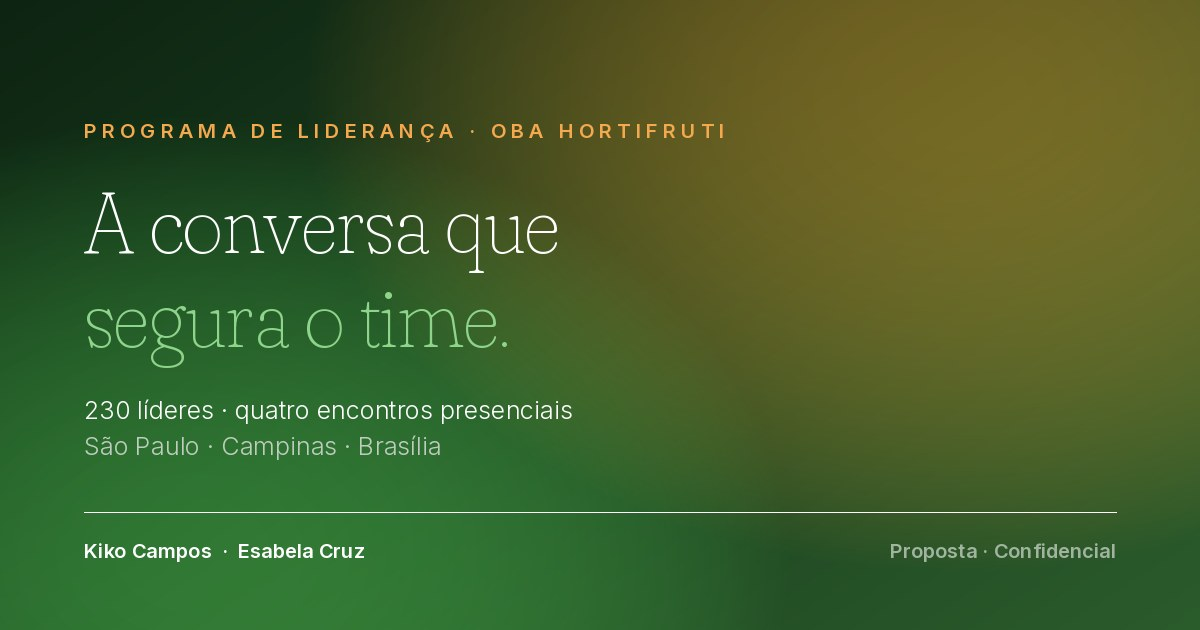
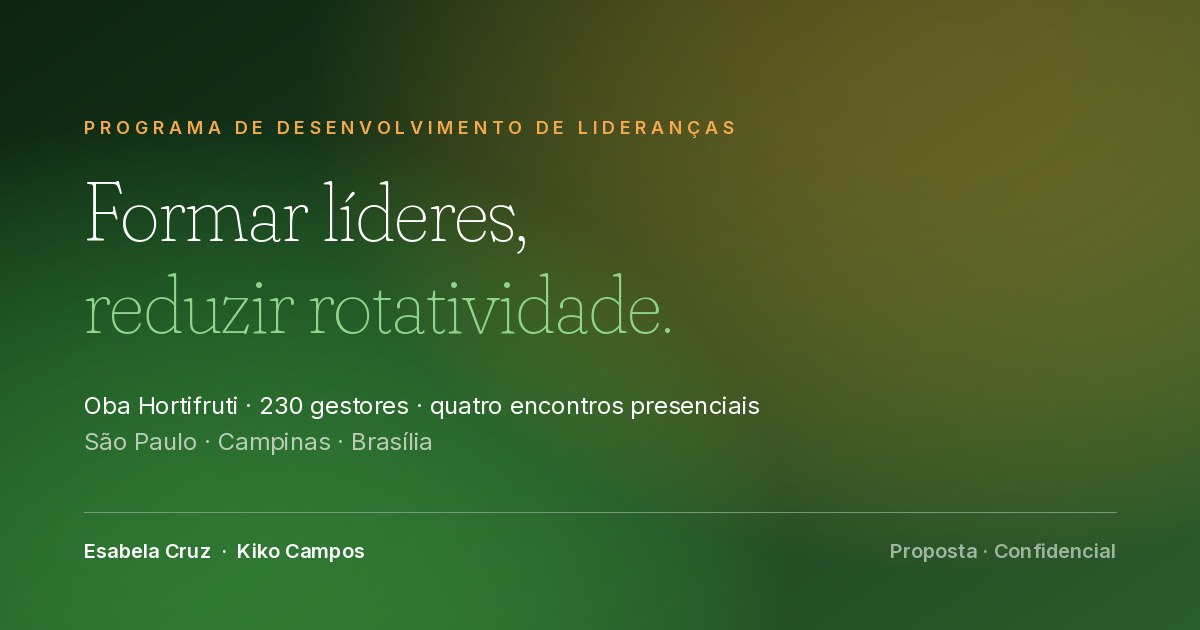
Add files via upload

diff --git a/proposta/oba/index.html b/proposta/oba/index.html
@@ -3,18 +3,18 @@
 <head>
 <meta charset="utf-8">
 <meta name="viewport" content="width=device-width, initial-scale=1">
-<title>A conversa que segura o time · Proposta Kiko Campos para o Oba Hortifruti</title>
-<meta name="description" content="Proposta comercial para o programa de liderança do Oba Hortifruti. Quatro encontros presenciais, 230 líderes, São Paulo, Campinas e Brasília.">
+<title>Formar líderes, reduzir rotatividade · Proposta para o Oba Hortifruti</title>
+<meta name="description" content="Proposta comercial para o programa de desenvolvimento de lideranças do Oba Hortifruti. Quatro encontros presenciais, 230 gestores, São Paulo, Campinas e Brasília.">
 <meta name="robots" content="noindex, nofollow, noarchive">
 <meta name="googlebot" content="noindex, nofollow">
 <meta property="og:type" content="website">
-<meta property="og:title" content="A conversa que segura o time · Kiko Campos para o Oba Hortifruti">
-<meta property="og:description" content="Programa de liderança para 230 gestores do Oba Hortifruti. Quatro encontros presenciais em SP, Campinas e Brasília.">
+<meta property="og:title" content="Formar líderes, reduzir rotatividade · Esabela Cruz e Kiko Campos para o Oba Hortifruti">
+<meta property="og:description" content="Programa de desenvolvimento de lideranças para 230 gestores do Oba Hortifruti. Quatro encontros presenciais em SP, Campinas e Brasília.">
 <meta property="og:url" content="https://kikocampos.com/proposta/oba/">
 <meta property="og:image" content="https://kikocampos.com/proposta/oba/og.jpg">
 <meta property="og:image:width" content="1200">
 <meta property="og:image:height" content="630">
-<meta property="og:image:alt" content="A conversa que segura o time — proposta de Kiko Campos para o Oba Hortifruti">
+<meta property="og:image:alt" content="Formar líderes, reduzir rotatividade — proposta para o Oba Hortifruti">
 <meta name="twitter:card" content="summary_large_image">
 <link rel="preconnect" href="https://fonts.googleapis.com">
 <link rel="preconnect" href="https://fonts.gstatic.com" crossorigin>
@@ -163,6 +163,33 @@ section.alt .tl li::before{border-color:var(--creme)}
 .perfil svg{width:15px;height:15px;flex:none;fill:currentColor}
 .autor h2{margin-bottom:22px}
 
+/* ============ DUPLA EM PARIDADE ============ */
+.duo{display:grid;grid-template-columns:repeat(2,1fr);gap:44px;margin:40px 0 8px;align-items:start}
+.duo .pessoa figure{margin:0}
+.duo .pessoa img{width:100%;aspect-ratio:4/5;object-fit:cover;object-position:50% 22%;
+  display:block;border-radius:4px;box-shadow:0 22px 50px -24px rgba(20,48,26,.45)}
+.duo .pessoa h3{font-family:'Fraunces',serif;font-size:1.55rem;font-weight:600;
+  letter-spacing:-.015em;margin:22px 0 6px}
+.duo .pessoa .papel{font-size:10.5px;font-weight:700;letter-spacing:.22em;text-transform:uppercase;
+  color:var(--dourado);display:block;margin-bottom:16px;line-height:1.6}
+.duo .pessoa p{font-size:15.5px;line-height:1.62}
+.duo .pessoa .li-link{margin-top:6px}
+
+.fonte-num{display:inline-block;font-size:10.5px;font-weight:700;letter-spacing:.14em;
+  text-transform:uppercase;color:var(--verde);background:rgba(65,135,63,.09);
+  padding:3px 9px;border-radius:100px;margin-left:6px;white-space:nowrap;vertical-align:1px}
+
+/* ============ REFERÊNCIAS ============ */
+.refs{list-style:none;margin:34px 0 0;counter-reset:r}
+.refs li{counter-increment:r;position:relative;padding:20px 0 20px 46px;
+  border-bottom:1px solid var(--linha);font-size:15px;line-height:1.6;color:#414743}
+.refs li:first-child{border-top:1px solid var(--linha)}
+.refs li::before{content:counter(r);position:absolute;left:0;top:20px;
+  width:28px;height:28px;border-radius:50%;border:1px solid var(--verde);color:var(--verde);
+  display:grid;place-items:center;font-size:12px;font-weight:700;font-family:'Fraunces',serif}
+.refs li b{display:block;color:var(--tinta);font-weight:600;margin-bottom:4px;font-size:15.5px}
+.refs li cite{font-style:normal;color:var(--grafite);font-size:13.5px;display:block;margin-top:6px}
+
 .dupla{display:grid;grid-template-columns:repeat(2,1fr);gap:22px;margin:36px 0 0}
 .dupla .card{border-top:2px solid var(--dourado);border-radius:0 0 4px 4px;
   display:flex;flex-direction:column}
@@ -286,7 +313,10 @@ footer.rodape .in{max-width:var(--max);margin:0 auto;padding:0 32px;
   .stats .in{grid-template-columns:repeat(2,1fr);padding:34px 22px;gap:24px}
   .stat b{font-size:2rem}
   section{padding:58px 0}
-  .grid3,.grid2,.creds,.dupla,.papeis{grid-template-columns:1fr;gap:16px}
+  .grid3,.grid2,.creds,.dupla,.papeis,.duo{grid-template-columns:1fr;gap:16px}
+  .duo{gap:38px}
+  .duo .pessoa img{max-width:320px}
+  .refs li{padding-left:38px}
   .papeis{border-left:none;border-top:none;margin:28px 0}
   .papeis .p{border-right:none;padding:24px 0}
   .autor{grid-template-columns:1fr;gap:26px}
@@ -335,17 +365,17 @@ footer.rodape .in{max-width:var(--max);margin:0 auto;padding:0 32px;
              onerror="this.outerHTML='<span style=&quot;font-family:Fraunces,serif;font-size:20px;font-weight:600;color:#fff&quot;>Oba Hortifruti</span>'">
       </a>
       <div class="x"></div>
-      <div class="kiko">Kiko Campos<small>Liderança · Cultura · Mudança</small></div>
+      <div class="kiko">Esabela Cruz &amp; Kiko Campos<small>Liderança · Cultura · Mudança</small></div>
     </div>
     <div class="kv-tag">Proposta · Confidencial</div>
   </div>
 
   <div class="kv-core">
-    <div class="kicker">Programa de liderança · 230 gestores · SP, Campinas e Brasília</div>
-    <h1>A conversa que<em>segura o time.</em></h1>
-    <p class="lead">O Oba cresce por aquisição enquanto perde gente pela porta dos fundos.
-      Quatro encontros presenciais para transformar a qualidade da conversa entre gestor e equipe
-      no principal ativo de retenção da rede.</p>
+    <div class="kicker">Programa de desenvolvimento de lideranças · 230 gestores</div>
+    <h1>Formar líderes,<em>reduzir rotatividade.</em></h1>
+    <p class="lead">Um programa presencial para 230 gestores do Oba Hortifruti, focado na variável que
+      mais afeta a rotatividade em operações de varejo: a qualidade da conversa entre o gestor e
+      sua equipe.</p>
   </div>
 
   <div class="kv-foot">
@@ -434,17 +464,18 @@ footer.rodape .in{max-width:var(--max);margin:0 auto;padding:0 32px;
       <div class="card">
         <span class="n">Tese I</span>
         <h4>Turnover no varejo de frescos raramente é falta de empatia. É falta de previsibilidade.</h4>
-        <p>A pesquisa de Zeynep Ton, do MIT, sobre operações de varejo é consistente: estabilidade de
-          jornada e clareza de escala movem rotatividade mais do que qualquer ação isolada de engajamento.
-          Quem sai porque “cada dia era um horário” está reagindo ao desenho do trabalho.</p>
+        <p>A pesquisa de Zeynep Ton, do MIT, e o experimento randomizado conduzido na Gap Inc. convergem:
+          estabilidade de jornada move rotatividade, vendas e produtividade mais do que qualquer ação
+          isolada de engajamento. Quem sai porque “cada dia era um horário” está reagindo ao desenho do
+          trabalho. <span class="fonte-num">Fontes 2 e 3</span></p>
         <p>O gestor não controla a escala inteira — mas controla <strong>previsibilidade, aviso prévio,
           negociação e explicação</strong>. É aí que o treinamento age.</p>
       </div>
       <div class="card">
         <span class="n">Tese II</span>
         <h4>Duas lojas com a mesma política de RH entregam rotatividade oposta.</h4>
-        <p>A diferença é quem lidera. O corpo de pesquisa da Gallup atribui ao gestor direto a maior parte
-          da variação de engajamento entre equipes.</p>
+        <p>A diferença é quem lidera. A Gallup atribui ao gestor direto <strong>pelo menos 70% da variação</strong>
+          de engajamento entre equipes, em base de 27 milhões de colaboradores. <span class="fonte-num">Fonte 4</span></p>
         <p>Isso é uma boa notícia para o Oba: significa que existe uma alavanca <strong>dentro</strong> da
           empresa, exercível na segunda-feira de manhã, sem esperar reestruturação de política.</p>
       </div>
@@ -464,6 +495,88 @@ footer.rodape .in{max-width:var(--max);margin:0 auto;padding:0 32px;
       <p>Ninguém pede demissão de uma empresa. Pede demissão de uma conversa que nunca aconteceu.</p>
       <p>Por isso esta proposta não vende um workshop de liderança. Vende o treino de três conversas
         específicas, com roteiro, prática em sala e compromisso datado antes de o participante sair.</p>
+    </div>
+  </div>
+</section>
+
+<!-- ============================ FUNDAMENTAÇÃO ============================ -->
+<section class="alt">
+  <div class="wrap narrow rv">
+    <div class="eyebrow">Fundamentação</div>
+    <h2>De onde vem cada afirmação desta proposta</h2>
+    <p class="big">Nada aqui é opinião de palco. Cada tese acima se apoia em pesquisa publicada, em dado
+      setorial ou em norma vigente — e registramos a fonte para que o RH do Oba possa checar e usar
+      internamente.</p>
+
+    <ol class="refs">
+      <li>
+        <b>Intervenções individuais de bem-estar não movem o ponteiro. Desenho do trabalho, sim.</b>
+        O maior estudo já feito sobre o tema analisou <strong>46.336 trabalhadores em 233 organizações</strong>
+        e não encontrou benefício mensurável em mindfulness, apps de bem-estar, aulas de relaxamento ou
+        treinos de resiliência. O autor aponta o caminho oposto: mudanças em <strong>escala, práticas de
+        gestão, dimensionamento de equipe, avaliação de desempenho e desenho do trabalho</strong>.
+        <cite>Fleming, W. (2024). <em>Employee well-being outcomes from individual-level mental health
+        interventions</em>. Industrial Relations Journal — Wellbeing Research Centre, Universidade de Oxford.</cite>
+      </li>
+      <li>
+        <b>Escala previsível aumenta vendas e produtividade — não é só um benefício para o funcionário.</b>
+        Primeiro experimento randomizado controlado sobre estabilidade de jornada no varejo, conduzido em
+        <strong>28 lojas da Gap Inc.</strong>: a intervenção elevou as vendas medianas em <strong>7%</strong>
+        e a produtividade do trabalho em <strong>5%</strong>, com redução de horas trabalhadas. É a base
+        empírica da Tese I.
+        <cite>Kesavan, S. (UNC Kenan-Flagler), Lambert, S. (Univ. de Chicago), Williams, J. C. (UC Law SF)
+        &amp; Pendem, P. — <em>The Stable Scheduling Study</em>; publicado em Management Science (2022).</cite>
+      </li>
+      <li>
+        <b>Bons empregos reduzem rotatividade entre 25% e 60% — e a escala previsível é um dos quatro pilares.</b>
+        A pesquisa de Zeynep Ton, do MIT Sloan, documenta há mais de quinze anos operações de varejo que
+        invertem o modelo de mão de obra barata e descartável. As quatro necessidades básicas de um bom
+        emprego: <strong>remuneração justa, jornada estável e previsível, caminho de carreira claro e
+        segurança</strong>.
+        <cite>Ton, Z. — <em>The Good Jobs Strategy</em> (2014) e <em>The Case for Good Jobs</em> (2023),
+        MIT Sloan School of Management / Good Jobs Institute.</cite>
+      </li>
+      <li>
+        <b>O gestor direto explica pelo menos 70% da variação de engajamento entre equipes.</b>
+        Base de <strong>27 milhões de colaboradores e mais de 2,5 milhões de unidades de trabalho</strong>
+        analisadas ao longo de duas décadas. É o que sustenta a Tese II: mesma política de RH, resultados
+        opostos, conforme quem lidera.
+        <cite>Gallup — <em>State of the American Manager: Analytics and Advice for Leaders</em> (2015).</cite>
+      </li>
+      <li>
+        <b>A conversa de permanência é uma prática estruturada, não uma conversa informal.</b>
+        O <em>stay interview</em> é definido como uma discussão estruturada que o líder conduz com cada
+        pessoa da equipe para descobrir as ações concretas que fortalecem o vínculo dela — antes do pedido
+        de demissão, e não depois. Diferente da pesquisa de clima, gera informação acionável no mesmo dia
+        e um plano individual de permanência.
+        <cite>Finnegan, R. P. — <em>The Power of Stay Interviews for Engagement and Retention</em>, SHRM;
+        e <em>The Stay Interview: A Manager's Guide</em> (AMACOM).</cite>
+      </li>
+      <li>
+        <b>A rotatividade do setor é o benchmark contra o qual o Oba será medido.</b>
+        A rotatividade nos supermercados brasileiros fechou 2025 em <strong>58,2%</strong> — em São Paulo,
+        <strong>52,8%</strong>. No varejo paulistano como um todo, o índice atingiu <strong>60,3%</strong>,
+        o mais alto desde a adoção do Novo CAGED, num mercado de trabalho aquecido que favorece quem troca
+        de emprego.
+        <cite>Levantamento Future Tank / Asserj (2025) e dados de rotatividade do varejo paulistano,
+        Sindilojas-SP (2025), com base no Novo CAGED.</cite>
+      </li>
+      <li>
+        <b>Gestão de riscos psicossociais deixou de ser boa prática e virou obrigação legal.</b>
+        A NR-1 atualizada tornou obrigatória a inclusão dos fatores de risco psicossocial no inventário de
+        riscos do PGR, para <strong>todas as empresas com empregados CLT</strong>, independentemente de
+        porte ou grau de risco. Encerrada a fase educativa, a fiscalização passou a ter caráter punitivo em
+        <strong>26 de maio de 2026</strong>. Sobrecarga, imprevisibilidade de jornada e conduta de chefia
+        estão entre os fatores a inventariar — o que coloca a formação de líderes dentro do escopo de
+        conformidade, e não apenas de desenvolvimento.
+        <cite>Portaria MTE nº 1.419/2024 e Portaria MTE nº 765/2025, que definiu 26/05/2026 como termo final
+        da fase orientativa. Há discussão judicial em curso sobre critérios de fiscalização.</cite>
+      </li>
+    </ol>
+
+    <div class="quote">
+      <p>A leitura conjunta dessas fontes é simples: o que reduz rotatividade em varejo não é cuidar mais
+        do indivíduo. É mudar o que o líder faz com a escala, com o reconhecimento e com a conversa.</p>
     </div>
   </div>
 </section>
@@ -555,35 +668,51 @@ footer.rodape .in{max-width:var(--max);margin:0 auto;padding:0 32px;
 
 <!-- ============================ QUEM CONDUZ ============================ -->
 <section class="alt">
+  <div class="wrap narrow rv">
+    <div class="eyebrow">Quem conduz</div>
+    <h2>A dupla que vocês já viram<br>no Mente no Trabalho</h2>
+    <p class="big">O Oba chegou até aqui depois de acompanhar o <strong>Mente no Trabalho</strong> — a série
+      que conduzimos juntos, em oito edições, sobre saúde mental, NR-1 e desenho do trabalho.</p>
+    <p>Os quatro encontros são facilitados a quatro mãos, do começo ao fim. Não é um palestrante com
+      apoio: são duas leituras que se completam. Uma vem da psicologia do trabalho e da gestão de riscos
+      psicossociais; a outra, da direção de RH em operações de grande porte e de integração pós-aquisição
+      no varejo alimentar. O problema do Oba fica exatamente no meio das duas.</p>
+  </div>
+
   <div class="wrap rv">
-    <div class="autor">
-      <figure>
-        <img src="/kiko-2026.jpg" alt="Kiko Campos">
-        <figcaption>Kiko Campos<br>Liderança · Cultura · Mudança</figcaption>
-        <div class="perfil">
-          <a href="https://www.linkedin.com/in/kikocampos" target="_blank" rel="noopener">
-            <svg viewBox="0 0 24 24" aria-hidden="true"><path d="M20.45 20.45h-3.56v-5.57c0-1.33-.03-3.04-1.85-3.04-1.85 0-2.14 1.45-2.14 2.94v5.67H9.35V9h3.41v1.56h.05a3.74 3.74 0 0 1 3.37-1.85c3.6 0 4.27 2.37 4.27 5.46v6.28zM5.34 7.43a2.07 2.07 0 1 1 0-4.14 2.07 2.07 0 0 1 0 4.14zM7.12 20.45H3.55V9h3.57v11.45zM22.22 0H1.77C.79 0 0 .77 0 1.72v20.56C0 23.23.79 24 1.77 24h20.45c.98 0 1.78-.77 1.78-1.72V1.72C24 .77 23.2 0 22.22 0z"/></svg>
-            LinkedIn
-          </a>
-          <a href="https://kikocampos.com/KikoCampos_MidiaKit_PT.pdf" target="_blank" rel="noopener">
-            <svg viewBox="0 0 24 24" aria-hidden="true"><path d="M14 2H6a2 2 0 0 0-2 2v16a2 2 0 0 0 2 2h12a2 2 0 0 0 2-2V8l-6-6zm0 2 4.5 4.5H14V4zM8 13h8v1.5H8V13zm0 3.5h8V18H8v-1.5zm0-7h4V11H8V9.5z"/></svg>
-            Mídia kit completo (PDF)
-          </a>
-        </div>
-      </figure>
-      <div>
-        <div class="eyebrow">Quem conduz</div>
-        <h2>Já reduzimos turnover<br>em varejo alimentar — durante uma aquisição.</h2>
-        <p>Fui Diretor Global de RH, Transformação e Cultura da <strong>Vale</strong> — 170 mil pessoas,
-          12 países, interface direta com o comitê executivo. Antes disso, <strong>McKinsey</strong>.</p>
-        <p>Mas o que mais importa para o Oba é o <strong>Carrefour Brasil</strong>: liderei a integração do
-          Grupo BIG, com R$ 1,7 bilhão em sinergias, <strong>turnover reduzido de mais de 70% para 35%</strong>
-          e a criação da maior escola corporativa de liderança do país. Varejo alimentar, lojas herdadas,
-          equipes que não escolheram a nova bandeira, rotatividade alta. É exatamente o problema que o Oba
-          tem hoje — em escala muito maior.</p>
-        <p>Sou autor de <strong>O Novo Código da Mudança</strong>, com prefácio de Sofia Esteves. Duas vezes
+    <div class="duo">
+      <div class="pessoa">
+        <figure><img src="esabela.jpg" alt="Esabela Cruz"></figure>
+        <h3>Esabela Cruz, MSc</h3>
+        <span class="papel">Psicóloga do trabalho · riscos psicossociais · formação de lideranças</span>
+        <p>Atua em saúde mental, bem-estar e <strong>gestão de riscos psicossociais relacionados ao
+          trabalho (NR-1)</strong>, além de cultura organizacional, business partner estratégico, atração
+          e seleção e DE&amp;I. Traz para a sala a leitura clínica do que adoece e do que sustenta uma
+          equipe — e o método de metodologias ativas que faz o conteúdo virar prática.</p>
+        <p>É dela o conceito de <strong>plano de ação vivo</strong>: mapear a distância entre o trabalho
+          prescrito e o trabalho real, e transformar isso em desenho de trabalho — não em mais um programa
+          de bem-estar.</p>
+        <a class="li-link" href="https://www.linkedin.com/in/esabela-cruz-msc-93539b2a/" target="_blank" rel="noopener">
+          <svg viewBox="0 0 24 24" aria-hidden="true"><path d="M20.45 20.45h-3.56v-5.57c0-1.33-.03-3.04-1.85-3.04-1.85 0-2.14 1.45-2.14 2.94v5.67H9.35V9h3.41v1.56h.05a3.74 3.74 0 0 1 3.37-1.85c3.6 0 4.27 2.37 4.27 5.46v6.28zM5.34 7.43a2.07 2.07 0 1 1 0-4.14 2.07 2.07 0 0 1 0 4.14zM7.12 20.45H3.55V9h3.57v11.45zM22.22 0H1.77C.79 0 0 .77 0 1.72v20.56C0 23.23.79 24 1.77 24h20.45c.98 0 1.78-.77 1.78-1.72V1.72C24 .77 23.2 0 22.22 0z"/></svg>
+          LinkedIn
+        </a>
+      </div>
+
+      <div class="pessoa">
+        <figure><img src="/kiko-2026.jpg" alt="Kiko Campos"></figure>
+        <h3>Kiko Campos</h3>
+        <span class="papel">Diretor de RH · cultura, liderança e transformação pós-M&amp;A</span>
+        <p>Foi Diretor Global de RH, Transformação e Cultura da <strong>Vale</strong> — 170 mil pessoas,
+          12 países. Antes, <strong>McKinsey</strong>. No <strong>Carrefour Brasil</strong>, liderou a
+          integração do Grupo BIG: R$ 1,7 bilhão em sinergias, <strong>turnover reduzido de mais de 70%
+          para 35%</strong> e a maior escola corporativa de liderança do país.</p>
+        <p>Autor de <strong>O Novo Código da Mudança</strong>, com prefácio de Sofia Esteves. Duas vezes
           eleito um dos profissionais de RH mais admirados do Brasil, LinkedIn Top Voice e membro do Forbes
           Human Resources Council.</p>
+        <a class="li-link" href="https://www.linkedin.com/in/kikocampos" target="_blank" rel="noopener">
+          <svg viewBox="0 0 24 24" aria-hidden="true"><path d="M20.45 20.45h-3.56v-5.57c0-1.33-.03-3.04-1.85-3.04-1.85 0-2.14 1.45-2.14 2.94v5.67H9.35V9h3.41v1.56h.05a3.74 3.74 0 0 1 3.37-1.85c3.6 0 4.27 2.37 4.27 5.46v6.28zM5.34 7.43a2.07 2.07 0 1 1 0-4.14 2.07 2.07 0 0 1 0 4.14zM7.12 20.45H3.55V9h3.57v11.45zM22.22 0H1.77C.79 0 0 .77 0 1.72v20.56C0 23.23.79 24 1.77 24h20.45c.98 0 1.78-.77 1.78-1.72V1.72C24 .77 23.2 0 22.22 0z"/></svg>
+          linkedin.com/in/kikocampos
+        </a>
       </div>
     </div>
   </div>
@@ -592,46 +721,14 @@ footer.rodape .in{max-width:var(--max);margin:0 auto;padding:0 32px;
     <div class="creds">
       <div class="cred"><b>70% &rarr; 35%</b><span>Redução de turnover na integração do Grupo BIG, no Carrefour Brasil</span></div>
       <div class="cred"><b>R$ 1,7 bi</b><span>Em sinergias capturadas na maior integração do varejo alimentar brasileiro</span></div>
-      <div class="cred"><b>8 mil</b><span>Líderes formados na maior escola corporativa de liderança do país</span></div>
-      <div class="cred"><b>170 mil</b><span>Pessoas sob a diretoria global de RH, Transformação e Cultura da Vale, em 12 países</span></div>
+      <div class="cred"><b>8 edições</b><span>Da série Mente no Trabalho, conduzida pelos dois em 2026</span></div>
+      <div class="cred"><b>NR-1</b><span>Checklist de riscos psicossociais para o RH, construído em conjunto</span></div>
     </div>
 
-    <h3>Condução em dupla</h3>
-    <p>Sala de sessenta a setenta pessoas em metodologia ativa não se conduz sozinho. Os quatro encontros
-      são facilitados a quatro mãos — um conduz o palco, o outro circula pelas mesas. É o que garante que
-      o Laboratório de conversas seja prática de verdade, e não exercício de faz de conta.</p>
-
-    <div class="dupla">
-      <div class="card">
-        <div class="retrato">
-          <span class="iniciais">KC</span>
-          <img src="/kiko-home.jpg" alt="Kiko Campos" onerror="this.style.display='none'">
-        </div>
-        <h4>Kiko Campos</h4>
-        <span class="papel">Condução · conteúdo · palco</span>
-        <p>Vale, Carrefour Brasil e McKinsey. Autor de <em>O Novo Código da Mudança</em>. Traz o repertório
-          de integração pós-aquisição e de redução de turnover em varejo alimentar.</p>
-        <a class="li-link" href="https://www.linkedin.com/in/kikocampos" target="_blank" rel="noopener">
-          <svg viewBox="0 0 24 24" aria-hidden="true"><path d="M20.45 20.45h-3.56v-5.57c0-1.33-.03-3.04-1.85-3.04-1.85 0-2.14 1.45-2.14 2.94v5.67H9.35V9h3.41v1.56h.05a3.74 3.74 0 0 1 3.37-1.85c3.6 0 4.27 2.37 4.27 5.46v6.28zM5.34 7.43a2.07 2.07 0 1 1 0-4.14 2.07 2.07 0 0 1 0 4.14zM7.12 20.45H3.55V9h3.57v11.45zM22.22 0H1.77C.79 0 0 .77 0 1.72v20.56C0 23.23.79 24 1.77 24h20.45c.98 0 1.78-.77 1.78-1.72V1.72C24 .77 23.2 0 22.22 0z"/></svg>
-          linkedin.com/in/kikocampos
-        </a>
-      </div>
-
-      <div class="card">
-        <div class="retrato">
-          <span class="iniciais">EC</span>
-          <img src="esabela.jpg" alt="Esabela Cruz" onerror="this.style.display='none'">
-        </div>
-        <h4>Esabela Cruz</h4>
-        <span class="papel">Facilitação · metodologias ativas</span>
-        <p>Facilitadora de desenvolvimento de liderança com foco em metodologias ativas e aplicação prática
-          no dia seguinte ao encontro. Responsável pelo desenho dos laboratórios e do material de sustentação.</p>
-        <a class="li-link" href="https://www.linkedin.com/in/esabela-cruz-msc-93539b2a/" target="_blank" rel="noopener">
-          <svg viewBox="0 0 24 24" aria-hidden="true"><path d="M20.45 20.45h-3.56v-5.57c0-1.33-.03-3.04-1.85-3.04-1.85 0-2.14 1.45-2.14 2.94v5.67H9.35V9h3.41v1.56h.05a3.74 3.74 0 0 1 3.37-1.85c3.6 0 4.27 2.37 4.27 5.46v6.28zM5.34 7.43a2.07 2.07 0 1 1 0-4.14 2.07 2.07 0 0 1 0 4.14zM7.12 20.45H3.55V9h3.57v11.45zM22.22 0H1.77C.79 0 0 .77 0 1.72v20.56C0 23.23.79 24 1.77 24h20.45c.98 0 1.78-.77 1.78-1.72V1.72C24 .77 23.2 0 22.22 0z"/></svg>
-          LinkedIn
-        </a>
-      </div>
-    </div>
+    <p style="margin-top:36px">O que isso significa para o Oba, na prática: quem vai conduzir as quatro
+      salas já enfrentou este mesmo problema — <strong>rotatividade alta, lojas herdadas por aquisição e
+      equipes que não escolheram a nova bandeira</strong> — numa operação muitas vezes maior. E já traduziu
+      a norma de riscos psicossociais em rotina de gestão, e não em programa de bem-estar.</p>
 
     <h3>O método</h3>
     <p>Todo o trabalho — palco, programa ou conselho — roda sobre a mesma espinha: <strong>Consciência</strong>
@@ -653,8 +750,8 @@ footer.rodape .in{max-width:var(--max);margin:0 auto;padding:0 32px;
         <p>Antes de decidir, vale ver a condução funcionando por completo. As duas keynotes abaixo estão
           abertas — e é essa a energia que as quatro salas do Oba terão.</p>
         <div class="btns">
-          <a class="btn solid" href="https://kikocampos.com/palestras.html" target="_blank" rel="noopener">
-            Palestras e temas &rarr;
+          <a class="btn solid" href="https://mente.kikocampos.com" target="_blank" rel="noopener">
+            Série Mente no Trabalho &rarr;
           </a>
           <a class="btn" href="https://www.youtube.com/watch?v=fU0zTw3BXuY" target="_blank" rel="noopener">
             <svg class="play" viewBox="0 0 24 24" fill="currentColor" aria-hidden="true"><path d="M8 5v14l11-7z"/></svg>
@@ -690,7 +787,8 @@ footer.rodape .in{max-width:var(--max);margin:0 auto;padding:0 32px;
         <h4>Conversa de permanência</h4>
         <p>Perguntar antes de perder. O <em>stay interview</em> é a prática de maior retorno e menor custo
           em varejo — e a mais ausente.</p>
-        <p>Ataca exatamente o que as entrevistas de desligamento do Oba estão revelando tarde demais.</p>
+        <p>Ataca exatamente o que as entrevistas de desligamento do Oba estão revelando tarde demais.
+          <span class="fonte-num">Fonte 5</span></p>
       </div>
       <div class="card">
         <span class="n">Conversa 2</span>
@@ -763,7 +861,9 @@ footer.rodape .in{max-width:var(--max);margin:0 auto;padding:0 32px;
             entrevistas de desligamento, projetadas na tela. A sala para de achar que é mais um treinamento.</td></tr>
         <tr><td>20–50 min</td><td>Mente no Trabalho aplicado à gestão</td>
           <td>Da saúde mental à prática de liderança: o que sustenta e o que desgasta um time de loja.
-            Bloco formativo, com método e referência — enxuto, sem palestra longa.</td></tr>
+            Aqui entra a NR-1 traduzida para a linguagem do gerente — sobrecarga, imprevisibilidade e
+            conduta de chefia como fatores de risco que ele influencia diretamente. Bloco formativo, com
+            método e referência, sem palestra longa.</td></tr>
         <tr><td>50–105 min</td><td>Laboratório de conversas</td>
           <td>Tríades com casos reais de loja. Cada participante conduz uma conversa, recebe outra e observa
             a terceira. A dupla de facilitação circula pelas mesas. É o coração do encontro.</td></tr>
@@ -841,6 +941,7 @@ footer.rodape .in{max-width:var(--max);margin:0 auto;padding:0 32px;
         <tr><td>Guia do Líder Oba</td><td>Material de apoio em PDF, com os roteiros ampliados, exemplos e perguntas de referência.</td></tr>
         <tr><td>Trilha de 30 dias</td><td>Quatro microdesafios semanais, com texto pronto para disparo pelos canais internos do Oba.</td></tr>
         <tr><td>Relatório executivo</td><td>Leitura do que as quatro salas revelaram sobre a liderança da rede, entregue ao RH após o último encontro.</td></tr>
+        <tr><td>Evidência para a NR-1</td><td>Registro de objetivos de aprendizagem, conteúdo programático, carga horária e material didático — no formato que a gestão de riscos psicossociais do PGR exige como medida de prevenção documentada.</td></tr>
         <tr><td>Sessão de indicadores</td><td>Leitura conjunta dos indicadores noventa dias após o programa, para que o RH leve o resultado à diretoria com narrativa, e não apenas com número.</td></tr>
       </tbody>
     </table>
